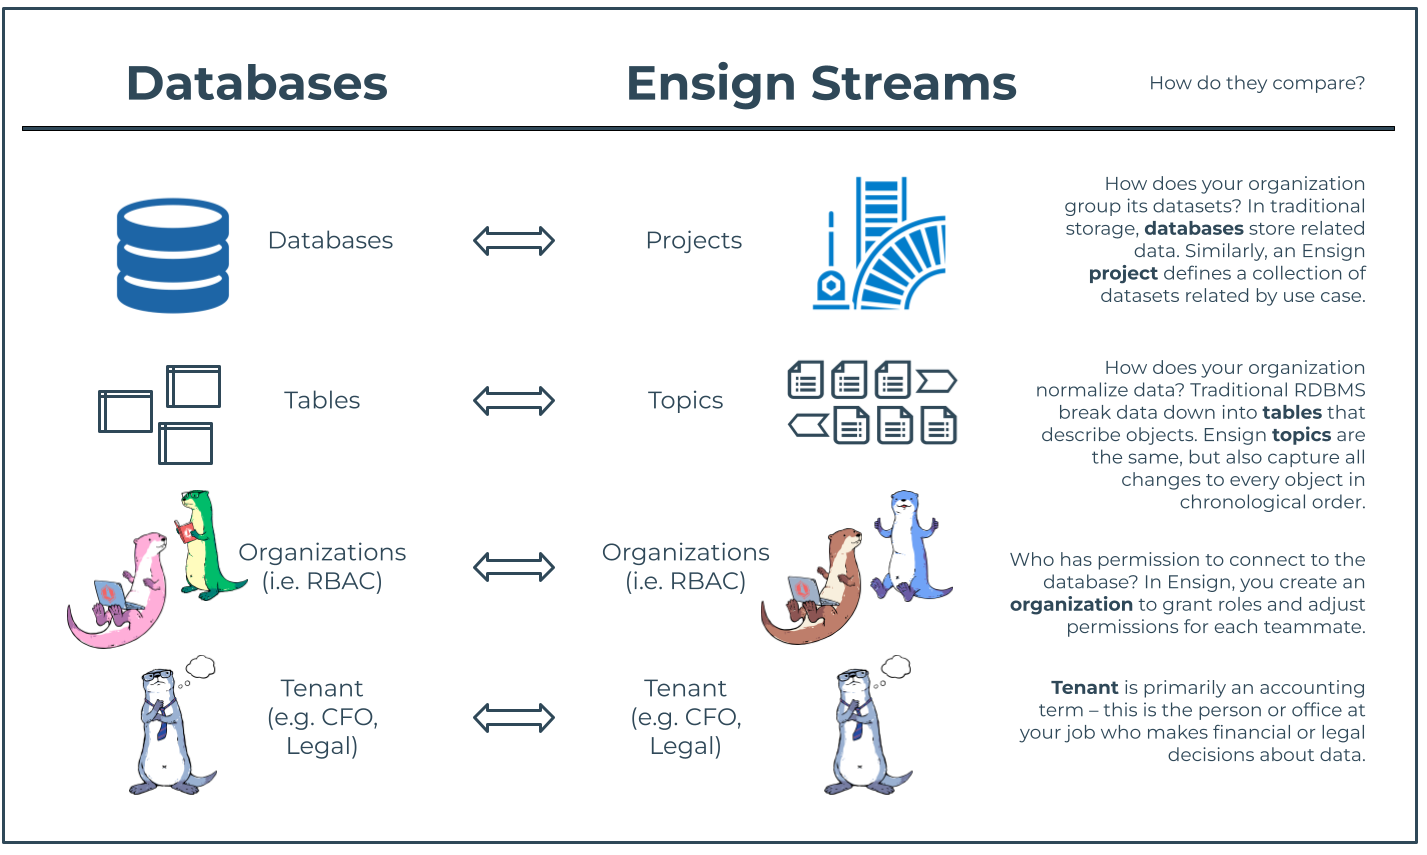
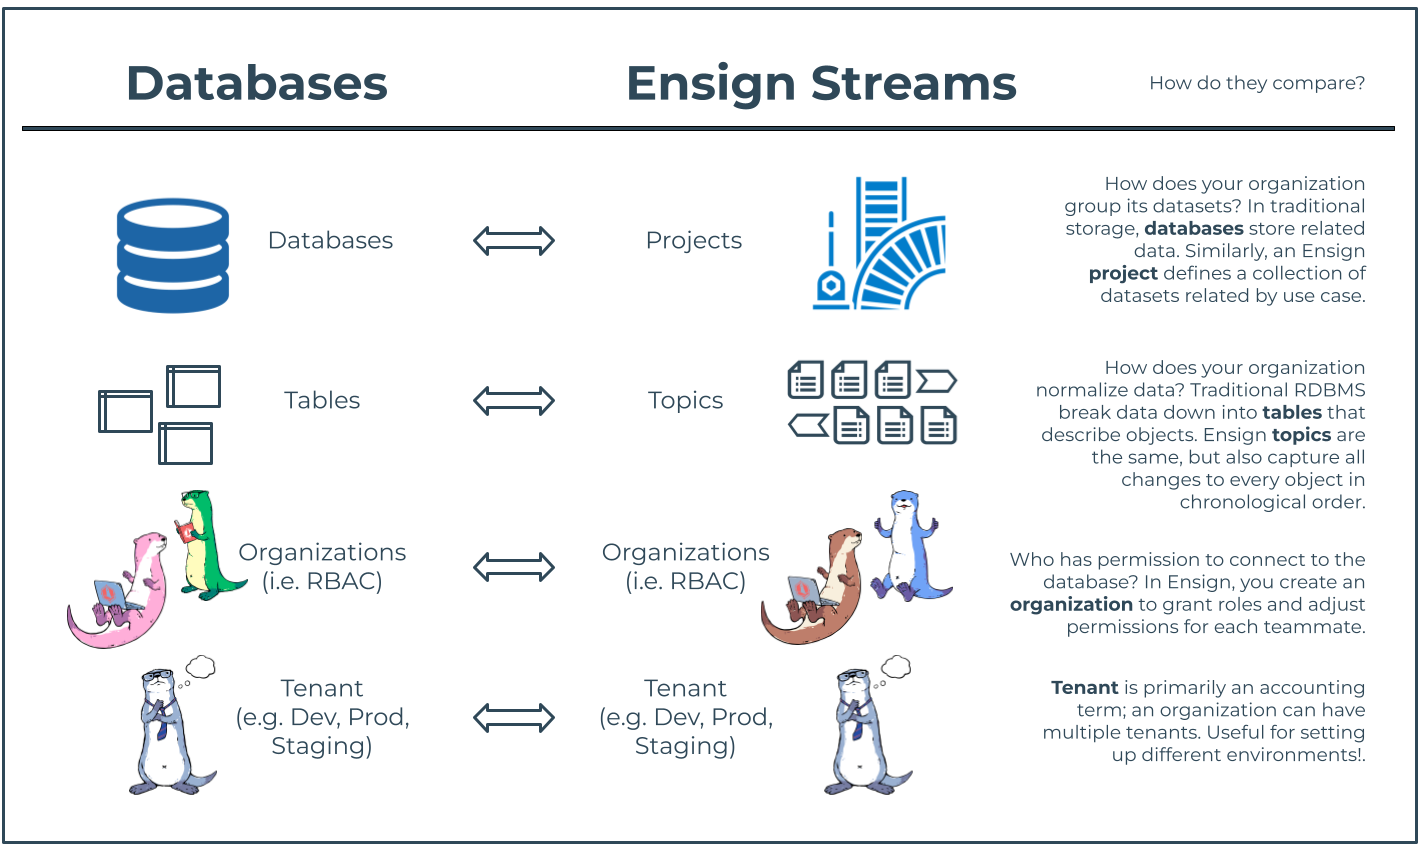
updates to FAQ

Changed region(s): [[0.7092, 0.8211, 0.9559, 0.9123], [0.4008, 0.8211, 0.555, 0.8819], [0.1542, 0.8211, 0.2775, 0.8819]]

diff --git a/docs/content/eventing/faq.md b/docs/content/eventing/faq.md
@@ -13,6 +13,18 @@ You can think of an event stream as a pipeline through which data flows, much li
 
 With Ensign, you can set up any number of secure event streams &mdash; also called [topics]({{< ref "/glossary#topic" >}}) &mdash; for a project or use case. This allows you to customize how to move data in your application or organization, to where it is most useful. You don’t need specialized skills, tools, or infrastructure. Just an [API key]({{< ref "/glossary#api-key" >}}) and a few lines of code.
 
+## What are Ensign "projects"?
+How does your organization group its datasets? In traditional storage, related data is stored in a `database`. An Ensign `project` defines a collection of datasets related by use case.
+
+## What are Ensign "topics"?
+How does your organization normalize data? Traditional relational database management systems (RDBMS) break data down into `tables` that describe objects. Ensign `topics` are the same, but also capture all changes to every object (in chronological order!).
+
+## What are Ensign "organizations"?
+Who has permission to connect to the database? In Ensign, you create an `organization` to grant roles and adjust permissions for each teammate. You can have a team of one, but it's not as fun 😉
+
+## What are Ensign "tenants"?
+Tenant is primarily an accounting term; an organization can have multiple tenants. Tenants are particularly useful for setting up different environments, such as Dev/Prod/Staging.
+
 ## What can I use an event stream for?
 Event streams are applicable to almost any use case that benefits from the continuous flow of data.
 
